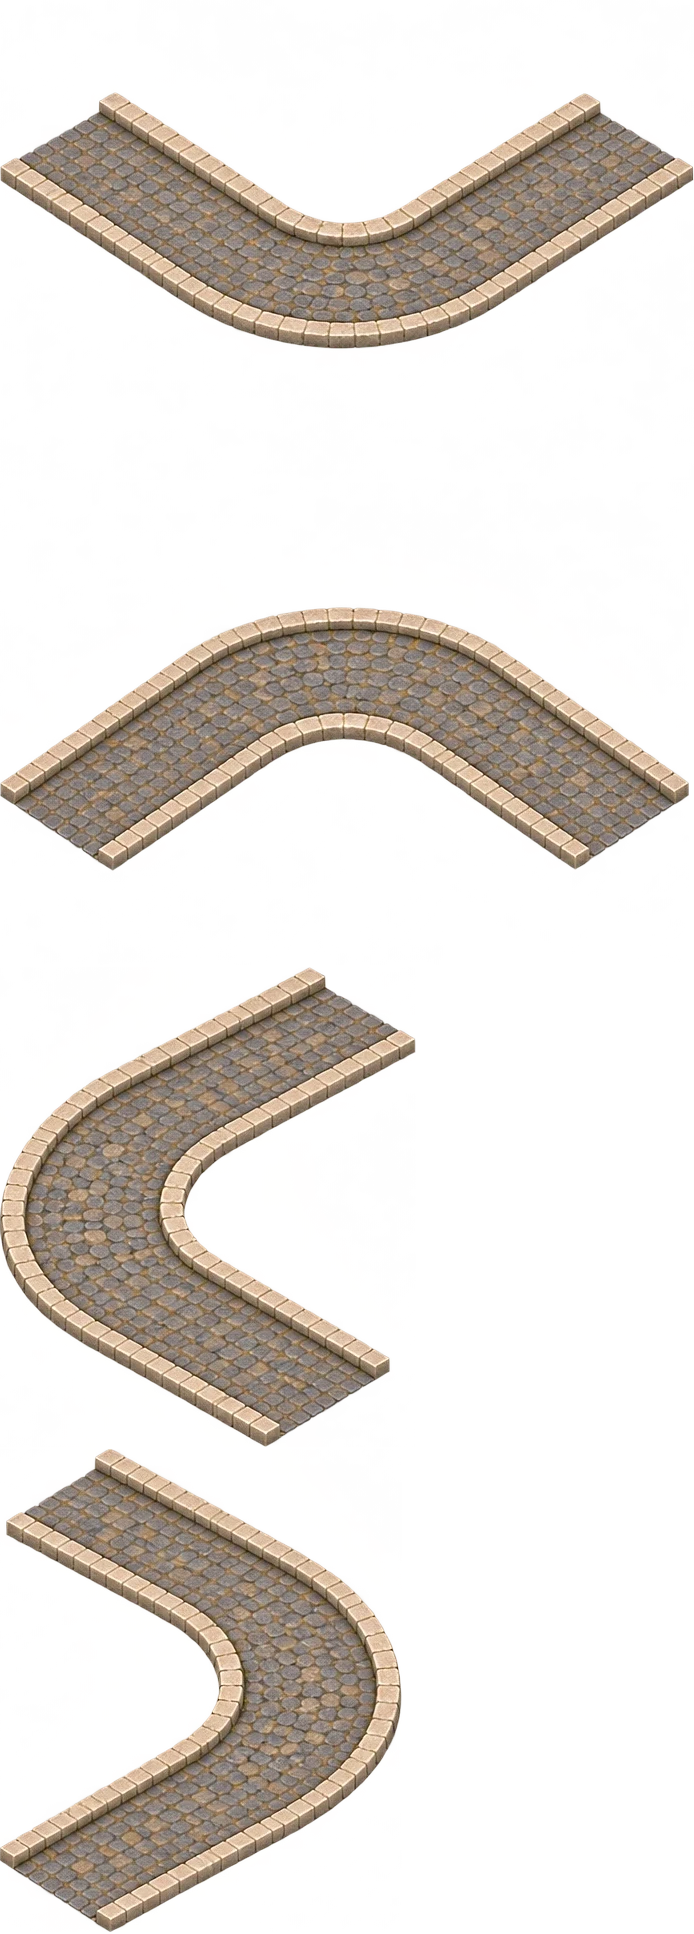
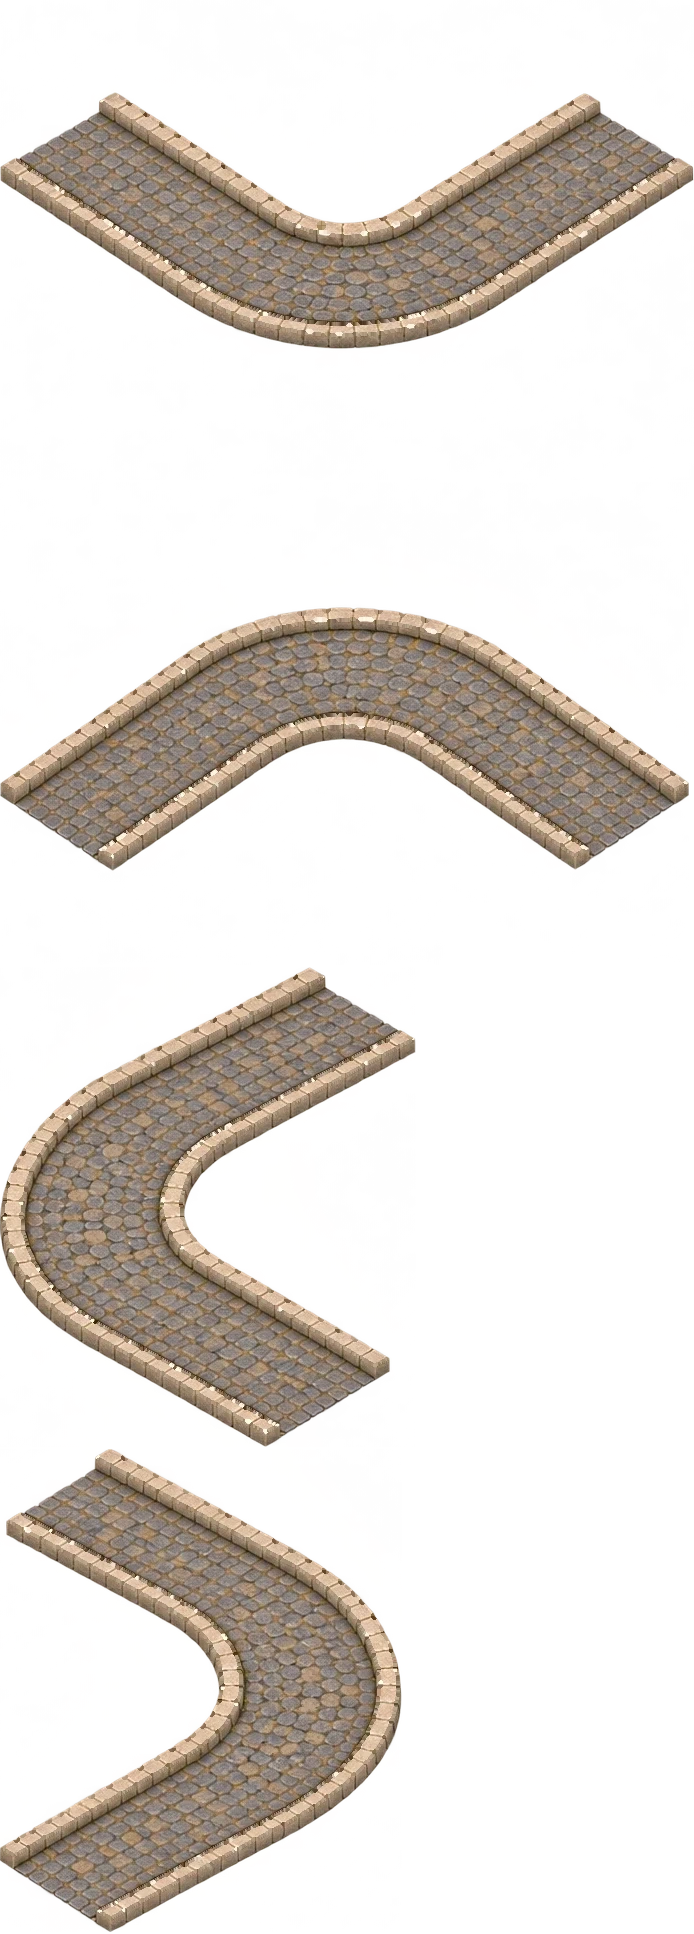
v98.914: ขอบทางโค้งบางเท่าทางตรง · ดินชิดขอบทางโค้ง (หน้ากากจาก alpha ของรูป) · ปลดมุมใน
Claude-Session: https://claude.ai/code/session_01QVVPDec1aFiJuJ2zftfoDz

diff --git a/village-town.html b/village-town.html
@@ -269,7 +269,7 @@ function paintRoad(q,lines,width){let sp=clipSplit.get(lines);if(!sp){const cut=
 const SHEET={cobble:null,curb:null,strips:null,pat:new WeakMap()};
 {const im=new Image();im.onload=()=>{SHEET.strips=im;terrainDirty=true;try{lateTerrain()}catch(e){}};im.src='assets/village-town/ground/road-strips.webp'}
 const STRIPS=()=>!!(window.ROAD_STRIPS&&SHEET.strips&&SHEET.cobble);
-{const im=new Image();im.onload=()=>{SHEET.curves=im;terrainDirty=true;try{lateTerrain()}catch(e){}};im.src='assets/village-town/ground/road-curves.webp'}
+{const im=new Image();im.onload=()=>{SHEET.curves=im;terrainDirty=true;try{lateTerrain()}catch(e){}try{buildRoadCover()}catch(e){}};im.src='assets/village-town/ground/road-curves.webp?v=v98.914'}
 const DIRNAME=(du,dv)=>du<-.5?'NW':du>.5?'SE':dv<-.5?'NE':'SW';
 for(const[k,f]of[['cobble','road-sheet-cobble.webp'],['curb','road-sheet-curb.webp']]){const im=new Image();im.onload=()=>{SHEET[k]=im;SHEET.pat=new WeakMap();terrainDirty=true;try{lateTerrain()}catch(e){}};im.src='assets/village-town/ground/'+f}
 function sheetPat(ctx,key){if(!SHEET.cobble||!SHEET.curb)return null;let m=SHEET.pat.get(ctx);if(!m)SHEET.pat.set(ctx,m=new Map());if(m.has(key))return m.get(key);let src,s;
@@ -368,8 +368,15 @@ function junctionShape(p,c,R){if(ROAD_SHAPE==='round'){p.moveTo(c.x+R,c.y*2);p.a
 /* v98.908 · the roads' visible footprint (paving + curb) as a mask: painted ground is cut out wherever it is opaque, so ground paint can never cover a road */
 const roadCover=document.createElement('canvas');roadCover.width=WORLD_W;roadCover.height=WORLD_H;
 function buildRoadCover(){try{const c=roadCover.getContext('2d');c.setTransform(1,0,0,1,0,0);c.clearRect(0,0,WORLD_W,WORLD_H);const keep=ROAD_CLIP;ROAD_CLIP=0;c.save();c.scale(1,.5);c.lineCap=c.lineJoin='round';c.strokeStyle=c.fillStyle='#000';for(const[lines,R]of[[roadMainLines,ROAD.main],[roadLaneLines,ROAD.lane]])paintRoad(c,lines,R.curb+2*RIM_DARK);paintRoad(c,roadExitLines,ROAD.main.pave-10);if(plazaPath)c.fill(plazaPath);if(junctionPath)c.fill(junctionPath);
-  /* v98.912 · CURVES are the exception, but ONLY the OUTER CORNER: a curved bend leaves a gap outside the curve (the square corner beyond the arc, bendPath(B,true)) — ground may be painted there to patch it; the curved road itself stays covered */
- c.globalCompositeOperation='destination-out';try{for(const B of roadBends())c.fill(bendPath(B,true))}catch(e){console.warn('road cover bends',e)}c.restore();ROAD_CLIP=keep;window.TownPaint?.setCover?.(roadCover)}catch(e){console.warn('road cover',e)}}
+  /* v98.912 · CURVES are the exception, but ONLY the OUTER CORNER: a curved bend leaves a gap outside the curve (the square corner beyond the arc, bendPath(B,true)) — ground may be painted there to patch it; the curved road itself stays covered. v98.913: the INNER corner (bendPath(B,false)) is open too */
+ c.globalCompositeOperation='destination-out';try{for(const B of roadBends())if(!B.CV){c.fill(bendPath(B,true));c.fill(bendPath(B,false))}}catch(e){console.warn('road cover bends',e)}
+ c.restore();
+ /* v98.914 · bends drawn with the owner's curve picture: the cover there is EXACTLY the picture's own shape (its alpha), so painted ground (soil) meets the curb with no strip of green grass left between them */
+ try{for(const B of roadBends())if(B.CV&&SHEET.curves){const M=B.CV.m,Pv={x:2240+(B.V.u-B.V.v)*28,y:1232+(B.V.u+B.V.v)*14},poly=curveRegion(B).map(g=>({x:2240+(g.u-g.v)*28,y:1232+(g.u+g.v)*14}));
+   c.save();c.beginPath();c.moveTo(poly[0].x,poly[0].y);for(let z=1;z<4;z++)c.lineTo(poly[z].x,poly[z].y);c.closePath();c.globalCompositeOperation='destination-out';c.fill();c.globalCompositeOperation='source-over';c.clip();
+   const T=document.createElement('canvas');T.width=B.CV.w;T.height=B.CV.h;const t=T.getContext('2d');t.drawImage(SHEET.curves,B.CV.x,B.CV.y,B.CV.w,B.CV.h,0,0,B.CV.w,B.CV.h);t.globalCompositeOperation='source-in';t.fillStyle='#000';t.fillRect(0,0,B.CV.w,B.CV.h);
+   c.translate(Pv.x,Pv.y);c.transform(M[0],M[2],M[1],M[3],0,0);c.drawImage(T,-B.CV.vx,-B.CV.vy);c.restore()}}catch(e){console.warn('road cover curves',e)}
+ ROAD_CLIP=keep;window.TownPaint?.setCover?.(roadCover)}catch(e){console.warn('road cover',e)}}
 function finishRoads(){window.VillageForest?.reset();fpClip=makeFpClip();fpClipCache=new Map();plazaPath=makePlaza();roadPath=pathFromLines(roadLines);
  roadMainLines=roadLines.filter((_,i)=>(roadKinds[i]||'main')==='main');roadExitLines=roadLines.filter((_,i)=>roadKinds[i]==='exit');roadLaneLines=[...roadLines.filter((_,i)=>roadKinds[i]==='lane')];roadMain=pathFromLines(roadMainLines);roadLane=pathFromLines(roadLaneLines);
  junctionPath=new Path2D();roadLines.forEach((l,i)=>{if(i===0||(roadKinds[i]||'main')!=='main'||l.length<2)return;junctionShape(junctionPath,l.at(-1),150)});

diff --git a/js/game-version.js b/js/game-version.js
@@ -2,7 +2,7 @@
    Major release: increment the main number (v80 → v81).
    Small patch (⬆ Push from an editor): increment the suffix counter (v81.13 → v81.14; treat it as a sequence, not a decimal).
    The commit message starts with the same version. Editor pushes bump the suffix automatically. */
-window.GAME_VERSION={v:'v98.913',date:'2026-11-21',repo:'ekkavish31/Project-Agrenor-Tactical-Card-Game'};
+window.GAME_VERSION={v:'v98.914',date:'2026-11-21',repo:'ekkavish31/Project-Agrenor-Tactical-Card-Game'};
 /* v91.94 · asset cache (sw.js): reloads reuse the ~60 MB of map images; a new version fetches them once; Ctrl+F5 refreshes the stored copies */
 /* v98.380 · on localhost (development) no asset cache: edited local images show on F5 (tools/dev-server.cjs) */
 try{if('serviceWorker' in navigator&&/^https?:$/.test(location.protocol)){if(/^(localhost|127\.0\.0\.1|\[::1\])$/.test(location.hostname)){navigator.serviceWorker.getRegistrations().then(r=>r.forEach(x=>x.unregister())).catch(()=>{});window.caches&&caches.keys().then(k=>k.forEach(n=>caches.delete(n))).catch(()=>{})}else navigator.serviceWorker.register('sw.js?v='+encodeURIComponent(window.GAME_VERSION.v)).catch(()=>{})}}catch(e){}

diff --git a/docs/CHANGELOG-TH.md b/docs/CHANGELOG-TH.md
@@ -7186,3 +7186,10 @@ v35b: เปลี่ยนการหมุนสนามจาก crossfade 
 ## v98.912 — วาดพื้นทับได้เฉพาะ "มุมนอกของทางโค้ง"
 - **ปรับจาก v98.911:** เดิมเจาะช่องสี่เหลี่ยมรอบโค้งทั้งหมด (ตัวถนนโค้งก็โดนวาดทับได้) → ตอนนี้เจาะเฉพาะ **มุมเขียวด้านนอกโค้ง** (ส่วนเกินของมุมสี่เหลี่ยมนอกรัศมีโค้ง = `bendPath(B,true)`) ที่เป็นรอยแหว่ง · ตัวถนนโค้งยังห้ามวาดทับ
 - ทดสอบ (Playwright): ทั้ง 4 โค้งในเลย์เอาต์ปัจจุบัน — กลางโค้ง/ขอบนอกของโค้ง = 255 (ห้ามวาด) · มุมนอก = 0 (วาดได้) · ถนนตรงยังห้ามวาด · ยังไม่ได้ดูภาพบนเครื่องจริง ถ้าแถบเขียวกว้างกว่ามุมนี้ ปรับขอบเขตได้ใน `buildRoadCover`
+
+## v98.914 — ขอบทางโค้งบางเท่าทางตรง · ดินชิดขอบทางโค้งไม่มีเขียวคั่น · ปลดมุมในด้วย
+- **ขอบถนนทางโค้งใหญ่กว่าทางตรง:** วัดจากภาพ ขอบทางโค้งหนา ~1.35 เท่าของทางตรง (13.9 vs ~10.2 พิกเซลต่อหน่วยความยาว) · ต้นเหตุคือรูป `assets/village-town/ground/road-curves.webp` → ประมวลผลรูปให้ขอบบางลง ~3.2px จากด้านผิวถนนเข้าไป (เติมด้วยสีหินกรวดที่ใกล้ที่สุด คงขอบนอก/ความกว้างถนนไว้) · หลังแก้ 9.5 vs ทางตรง ~10.2 ต้นฉบับเก็บไว้ในประวัติ git
+- **ดินชิดขอบทางโค้ง (`village-town.html` → `buildRoadCover`):** โค้งที่ใช้รูปทางโค้ง ใช้ "รูปร่างของรูปเอง (alpha)" เป็นหน้ากากห้ามวาด แทนช่องกว้างเดิม → พื้นที่วาด (ดิน) ชนขอบถนนพอดี ไม่มีแถบเขียวคั่น · ตัวถนนโค้งยังห้ามวาดทับ
+- **มุมใน (v98.913):** โค้งที่ไม่มีรูป ปลดทั้งมุมนอกและมุมในของโค้งให้วาดได้
+- รูปทางโค้งโหลดช้ากว่าถนน จึงสร้างหน้ากากใหม่ตอนรูปโหลดเสร็จด้วย
+- ทดสอบ (Playwright): วาดดินทับรอบโค้ง → ดินชนขอบถนนไม่มีช่องเขียว ตัวถนนไม่ถูกทับ · ถนนตรงยังห้ามวาด · ยังไม่ได้ดูบนเครื่องจริง
